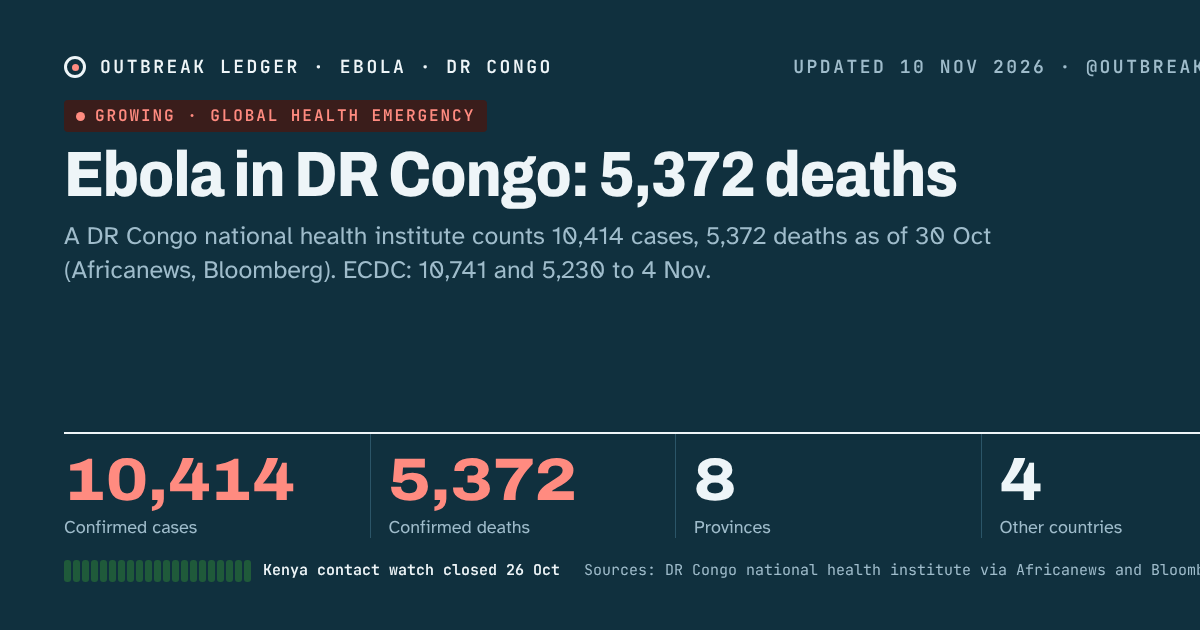
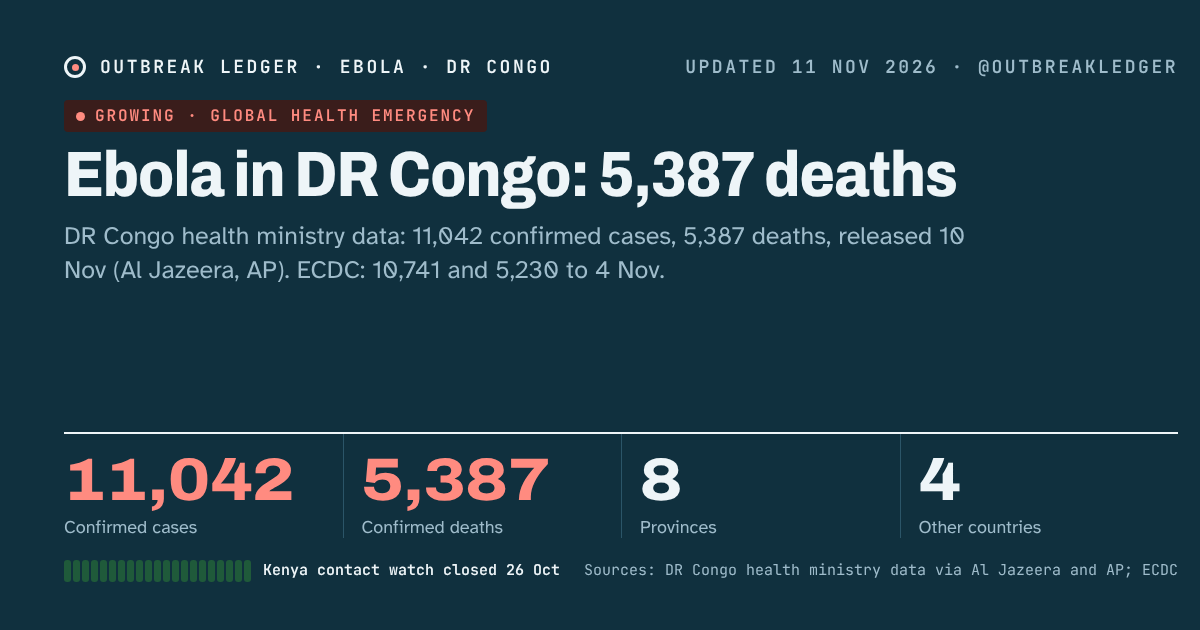
Trackers: Ebola DR Congo ministry data 11,042 cases / 5,387 deaths; others checked, no change
Claude-Session: https://claude.ai/code/session_01DjK934MGj4uKY77RiACNyU

diff --git a/site/ebola/share/latest-post.md b/site/ebola/share/latest-post.md
@@ -1,4 +1,4 @@
-Ebola (Bundibugyo), DR Congo: CDC's situation summary counts 10,990 confirmed cases and 5,354 deaths as of 8 Nov. DR Congo's health institute reported 10,414 and 5,372 as of 30 Oct; agencies use different dates and methods.
+Ebola (Bundibugyo), DR Congo: health ministry data show 11,042 confirmed cases and 5,387 deaths (Al Jazeera, AP, 11 Nov). ECDC counts 10,741 and 5,230 to 4 Nov; agencies use different dates and methods.
 https://nhlebe1.github.io/ai-scheduler-platform/ebola/
 
-Sources: CDC Ebola situation summary (10 Nov); DR Congo institute via Bloomberg/Africanews (1-2 Nov).
+Sources: Al Jazeera (aljazeera.com/news/2026/11/11/ebola-cases-in-dr-congo-pass-11000-with-5387-deaths); AP via News4Jax (11 Nov); ECDC.
